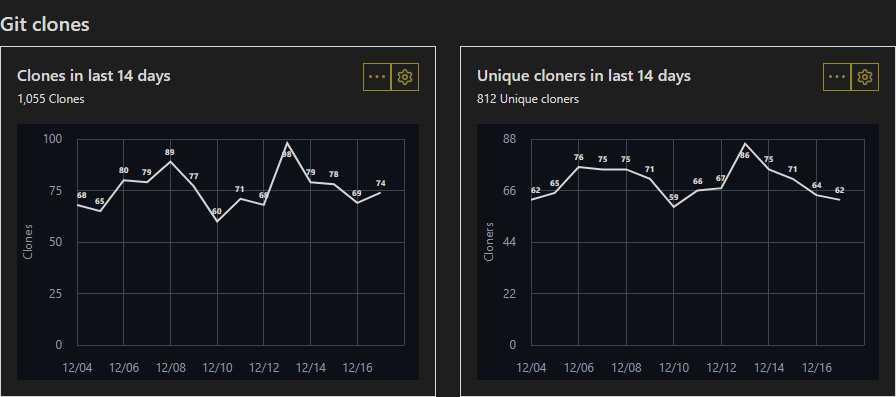
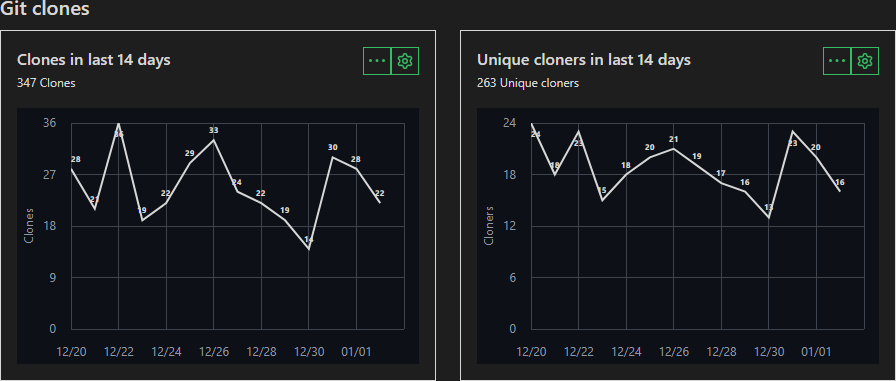
git stats - Jan/03

diff --git a/README.md b/README.md
@@ -471,6 +471,8 @@ since the traffic section of the insight tab is hidden to other viewers of this 
 
 ![](https://raw.githubusercontent.com/junguler/m3u-radio-music-playlists/main/stuff/stats_2.jpg)
 
+![](https://raw.githubusercontent.com/junguler/m3u-radio-music-playlists/main/stuff/stats_3.jpg)
+
 <br>
 
 <table align="center">
